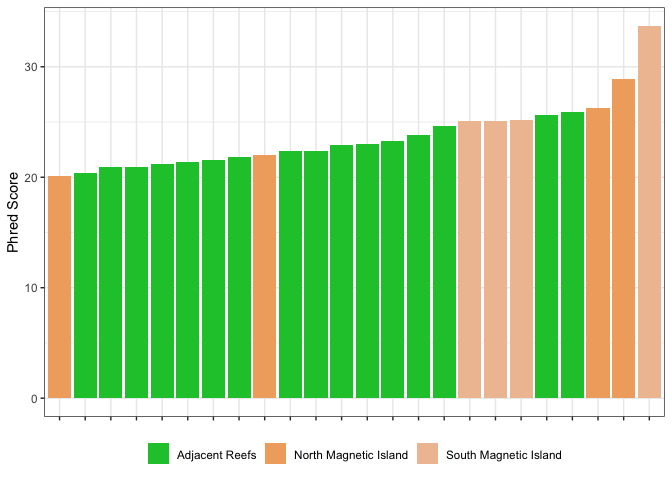
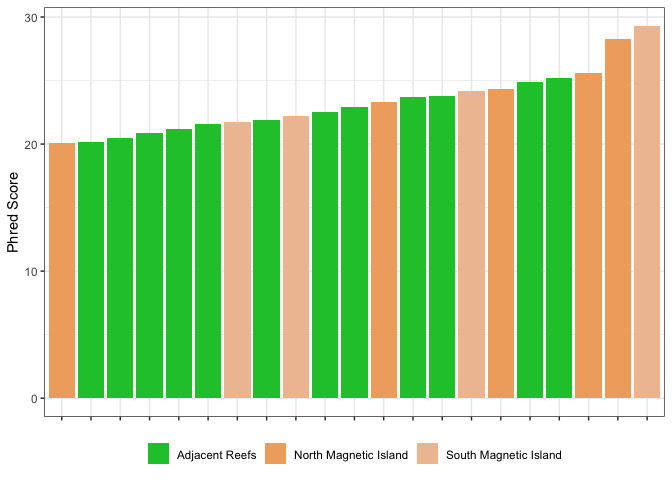
Render 05 and 06

diff --git a/06.LROH.md b/06.LROH.md
@@ -1,14 +1,6 @@
 # 6 Long Runs of Homozygosity
 Ira Cooke
 
-``` r
-library(ggrepel)
-library(tidyverse)
-library(dartR.base)
-library(mHG)
-source("constants.R")
-```
-
 This analysis must be performed from a vcf file as it requires genomic
 positions to be mapped. Crucially, the analysis also makes use of
 estimated allele frequencies so we must run it separately for Magnetic
@@ -17,16 +9,6 @@ dataset as was used for Ne and genetic diversity analyses (same loci and
 individuals).
 
 First setup data we need
-
-``` r
-load(file = "cache/ak.gen.mi.adj.rdata")
-```
-
-``` r
-# Write a table of samples mapped to pops for bcftools to use
-data.frame(id=ak.gen.mi.adj$ind.names,pop=ak.gen.mi.adj$pop) %>% 
-  write.table(file = "lroh/id2pops.txt",row.names = FALSE, quote = FALSE)
-```
 
 ``` bash
 cd lroh
@@ -40,10 +22,6 @@ Now run `bcftools roh` to look for runs of homozygosity
     bcftools roh -S palms_ancestry.txt -G30 --estimate-AF "GT,-" -O r ak.pop.nm.ind.vcf.gz | awk '$8>3' > palms_roh.tsv
     bcftools roh -S maggie_ancestry.txt -G30 --estimate-AF "GT,-" -O r ak.pop.nm.ind.vcf.gz | awk '$8>3' > maggie_roh.tsv
 
-``` r
-load("cache/metadata.rdata")
-```
-
 This analysis reveals runs of homozygosity in a high proportion of
 samples. The total proportion of the genome in ROH is typically low
 \<1Mb = 0.2% but in some individuals is up to 20MB ~ 4%. Interestingly
@@ -52,99 +30,27 @@ Bay, the two south Maggie Sites where we see very low Ne. While there
 are also a few individuals with similarly high LROH in the Palms group
 this probably reflects the very high sample size there.
 
-``` r
-palms_roh <- read_tsv("lroh/palms_roh.tsv",comment = "#",col_names = c("rg","id","chr","start","end","length","n_markers","phred"),show_col_types = F)
-magie_roh <- read_tsv("lroh/maggie_roh.tsv",comment = "#",col_names = c("rg","id","chr","start","end","length","n_markers","phred"),show_col_types = F)
-
-roh <- rbind(palms_roh,magie_roh) %>% 
-  left_join(metadata,by=c("id"="ID"))
-```
-
-``` r
-roh_filtered <- roh %>% 
-  filter(phred>20) %>% 
-  group_by(id,pop) %>% 
-  summarise(tot_len = sum(length)) %>% 
-  mutate(pop_order = location_order[pop]) %>% 
-  mutate(mi_adj = case_when(
-    pop %in% maggie_sites ~ "MI",
-    .default = "ADJ"
-  )) %>% 
-  mutate(mi_no_adj = case_when(
-    pop %in% maggie_no_sites ~ "NO",
-    pop %in% maggie_so_sites ~ "SO",
-    .default = "ADJ"
-  ))
-
-outlier_data <- roh_filtered %>% 
-  filter(tot_len>2e7)
-```
-
-``` r
-roh_filtered %>% 
-  ggplot(aes(x=reorder(pop,pop_order),y=tot_len/1e6)) + 
-    geom_boxplot(aes(fill = mi_adj),outliers = FALSE) + 
-    geom_jitter(width=0.2) + 
-  geom_label_repel(data=outlier_data,aes(label = id)) +
-  scale_fill_manual(values = pop_colors,labels = pop_names) +
-  theme_minimal() + 
-  labs(
-    x="",
-    y="Total LROH/Mb"
-  ) + 
-  theme(legend.position = "top", legend.title = element_blank())
-```
-
 ![](06.LROH_files/figure-commonmark/unnamed-chunk-8-1.png)
 
 Instead of breaking this down by sampling location we can instead just
 look by key locations where we found differences in Ne. Here we see that
 the mean LROH follows the inverse trend to Ne
 
-``` r
-roh_filtered %>% 
-  ggplot(aes(x=mi_no_adj,y=tot_len/1e6)) + 
-    geom_boxplot(aes(fill = mi_no_adj),outliers = FALSE) + 
-    geom_jitter(width=0.2) +
-  scale_fill_manual(values = pop_colors,labels = pop_names) +
-  geom_label_repel(data=outlier_data,aes(label = pop)) +
-  theme_bw() + 
-  labs(
-    x="",
-    y="Total LROH/Mb"
-  ) + 
-  theme(legend.position = "bottom", legend.title = element_blank())
-```
-
 ![](06.LROH_files/figure-commonmark/unnamed-chunk-9-1.png)
 
-``` r
-ggsave("figures/figure_s5A.svg",width = 6,height = 5)
-```
+    Analysis of Variance Table
 
-``` r
-model <- lm(tot_len ~ mi_no_adj,roh_filtered)
-anova(model)
-```
+    Response: tot_len
+              Df     Sum Sq    Mean Sq F value Pr(>F)
+    mi_no_adj  2 7.9486e+13 3.9743e+13  0.7073 0.5062
+    Residuals 18 1.0115e+15 5.6194e+13               
 
     Analysis of Variance Table
 
     Response: tot_len
               Df     Sum Sq    Mean Sq F value Pr(>F)
-    mi_no_adj  2 1.9003e+14 9.5015e+13  1.9781 0.1633
-    Residuals 21 1.0087e+15 4.8033e+13               
-
-``` r
-model <- lm(tot_len ~ mi_adj,roh_filtered)
-anova(model)
-```
-
-    Analysis of Variance Table
-
-    Response: tot_len
-              Df     Sum Sq    Mean Sq F value Pr(>F)
-    mi_adj     1 1.0881e+14 1.0881e+14  2.1965 0.1525
-    Residuals 22 1.0899e+15 4.9541e+13               
+    mi_adj     1 1.7939e+13 1.7939e+13  0.3176 0.5796
+    Residuals 19 1.0730e+15 5.6476e+13               
 
 It is difficult to know what threshold to filter these ROH. Our power to
 detect ROH is quite low due to the sparsity of markers. If we filter to
@@ -158,58 +64,10 @@ from http://bioinfo.cs.technion.ac.il/people/zohar/thesis/eran.pdf
 individual we choose only the mighest PHRED scoring ROH per individual
 for this test.
 
-``` r
-roh_best <- roh %>%  
-  mutate(mi_adj = case_when(
-    pop %in% maggie_sites ~ "MI",
-    .default = "ADJ"
-  )) %>% 
-  mutate(mi_no_adj = case_when(
-    pop %in% maggie_no_sites ~ "NO",
-    pop %in% maggie_so_sites ~ "SO",
-    .default = "ADJ"
-  )) %>% 
-  group_by(id,mi_adj) %>% 
-  slice_max(order_by = phred,n=1,with_ties = FALSE)
-
-roh_best %>% 
-  filter(phred>20) %>% 
-  ggplot(aes(x=reorder(id,phred))) +
-  geom_col(aes(y=phred,fill=mi_no_adj)) + 
-  scale_fill_manual(values = pop_colors,labels = pop_names) +
-  theme_bw() + 
-  theme(axis.text.x = element_blank()) + 
-  labs(
-    x=NULL,
-    y="Phred Score",
-    fill=NULL
-  ) + 
-  theme(legend.position = "bottom")
-```
-
 ![](06.LROH_files/figure-commonmark/unnamed-chunk-12-1.png)
-
-``` r
-ggsave("figures/figure_s5B.svg",width = 6,height = 5)
-```
-
-``` r
-roh_binary <- roh %>% 
-  filter(phred>20) %>% 
-  mutate(mi_adj = case_when(
-    pop %in% maggie_so_sites ~ 1,
-    .default = 0
-  )) %>% 
-  group_by(id,mi_adj) %>% 
-  summarise(phred = max(phred)) %>% 
-  arrange(desc(phred)) %>% 
-  pull(mi_adj)
-
-mHG.test(roh_binary)
-```
 
 
 
 
     data:  
-    mHG = 0.0065876, N = 24, B = 4, n_max = 24, p-value = 0.008093
+    mHG = 0.19048, N = 21, B = 4, n_max = 21, p-value = 0.4035
